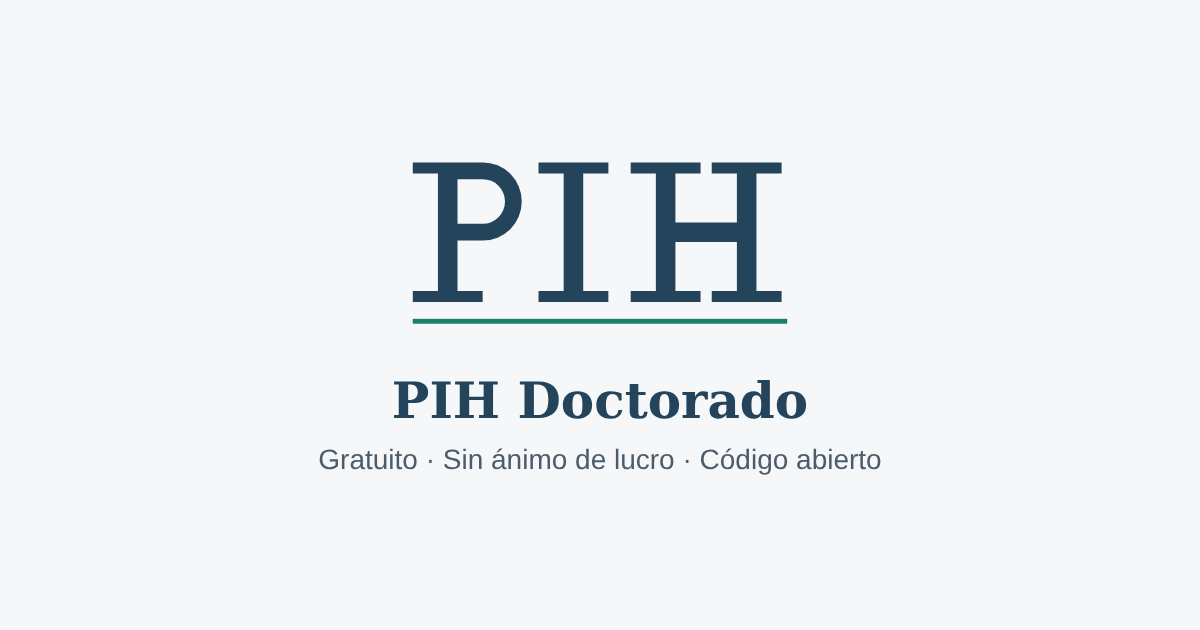
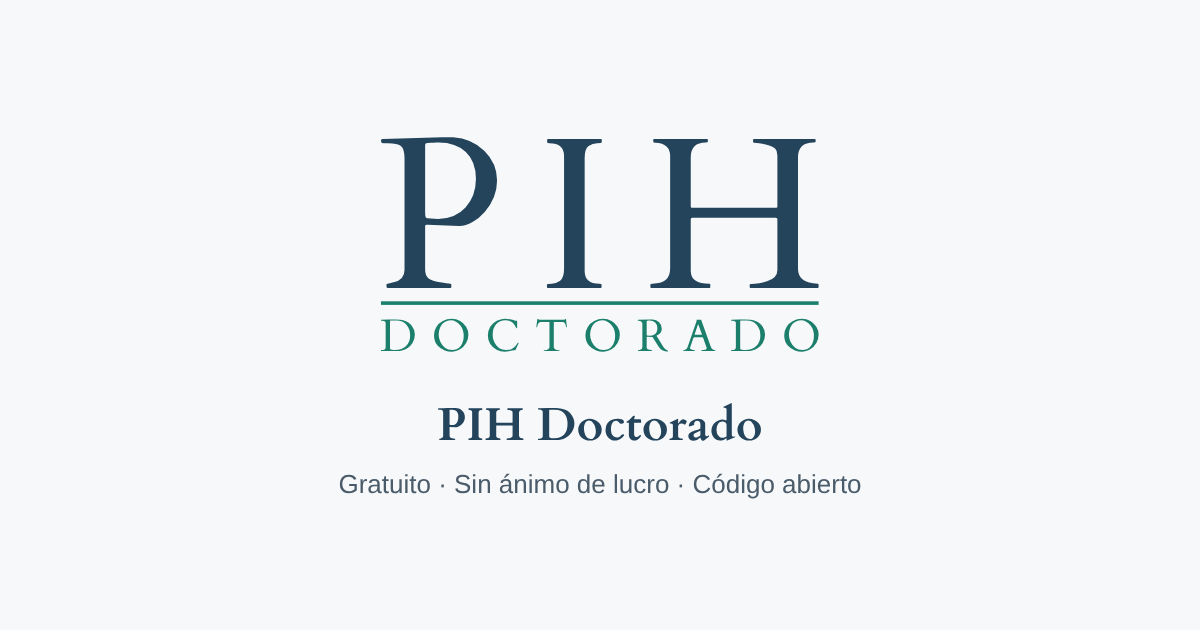
Add files via upload

Changed region(s): [[0.3083, 0.2111, 0.6783, 0.573], [0.2467, 0.6032, 0.74, 0.7841]]

diff --git a/index.html b/index.html
@@ -98,7 +98,7 @@ footer{padding-block:2rem 3rem;color:var(--muted);font-size:.85rem;border-top:1p
 .gholder[hidden]{display:none}
 .gbody code{font-family:ui-monospace,Menlo,Consolas,monospace;background:var(--surface);border:1px solid var(--line);border-radius:4px;padding:0 .25em}
 .gfig img{width:100%;height:auto;border:1px solid var(--line);border-radius:8px;display:block}
-.brand{height:34px;width:auto;margin-right:auto}
+.brand{height:44px;width:auto;margin-right:auto}
 .langbar{display:flex;justify-content:flex-end;align-items:center;gap:.5rem;padding-top:1rem;font-size:.85rem;color:var(--muted)}
 .langbar select{font:inherit;color:var(--ink);background:var(--surface);border:1px solid var(--line);border-radius:6px;padding:.35rem .6rem}
 .langbar select:focus-visible{outline:3px solid var(--accent);outline-offset:2px}
@@ -108,7 +108,7 @@ footer{padding-block:2rem 3rem;color:var(--muted);font-size:.85rem;border-top:1p
 
 <div class="wrap">
 
-<div class="langbar"><svg xmlns="http://www.w3.org/2000/svg" viewBox="0 -6 272 128" role="img" aria-label="PIH Doctorado" class="brand"><style>.l{fill:#24445C}.a{fill:#1B7F6B}@media (prefers-color-scheme:dark){.l{fill:#7FB0D1}.a{fill:#5FC2A9}}</style><path class="l" d="M20 0h14v100h-14zM2 0h50v8h-50zM2 92h50v8h-50zM34 0H52A28 28 0 0 1 52 56H34V44H52A16 16 0 0 0 52 12H34ZM110 0h14v100h-14zM92 0h50v8h-50zM92 92h50v8h-50zM176 0h14v100h-14zM158 0h50v8h-50zM158 92h50v8h-50zM234 0h14v100h-14zM216 0h50v8h-50zM216 92h50v8h-50zM189 43h46v14h-46z"/><rect class="a" x="2" y="112" width="268" height="3.5"/></svg><label for="lang" data-i18n="lang_label">Idioma</label>
+<div class="langbar"><svg xmlns="http://www.w3.org/2000/svg" viewBox="-4 -6 301.8 154.4" role="img" aria-label="PIH Doctorado" class="brand"><style>.l{fill:#24445C}.a{fill:#1B7F6B}@media (prefers-color-scheme:dark){.l{fill:#7FB0D1}.a{fill:#5FC2A9}}</style><path class="l" d="M4.26 100Q3.69 100 3.69 98.58V97.73Q3.69 97.16 4.4 97.16Q5.11 97.16 6.49 96.74Q7.87 96.31 8.58 96.17Q15.82 94.54 15.82 87.94V13.05Q15.82 6.52 13.4 4.72Q10.99 2.91 4.68 2.91H1.49Q0 2.91 0 1.21Q0 0.21 0.92 -0H1.42L41.21 -1.06H48.37Q61.06 -0.21 69.5 8.09Q77.94 16.38 77.94 27.98Q77.94 39.57 69.65 49.01Q66.03 53.19 61.49 55.78Q56.95 58.37 52.55 58.44L31.28 57.59H30.71Q29.65 57.59 29.65 58.58V87.73Q29.65 91.63 31.77 93.48Q33.9 95.32 40.78 96.38Q41.7 96.52 43.76 96.84Q45.82 97.16 46.52 97.16Q47.23 97.16 47.23 97.73V99.43Q47.23 100 46.67 100ZM29.65 3.83V49.57L29.79 51.7Q30 53.19 31.13 53.26L38.37 53.69Q49.79 53.69 56.77 46.03Q63.76 38.37 63.76 26.77Q63.76 15.18 56.99 8.79Q50.21 2.41 38.94 2.41Q37.94 2.41 37.09 2.45Q36.24 2.48 35.39 2.52Q34.54 2.55 33.58 2.59Q32.62 2.62 31.13 2.66Q29.65 2.7 29.65 3.83ZM122.92 11.35Q122.92 2.84 113.13 2.84Q111.57 2.84 111.57 2.27V0.57Q111.57 -0 112.14 -0H147.67Q148.24 -0 148.24 0.57V2.27Q148.24 2.84 145.12 2.84Q142 2.84 139.38 4.82Q136.75 6.81 136.75 12.98V88.65Q136.75 97.16 146.61 97.16Q148.1 97.16 148.1 97.73V99.43Q148.1 100 147.53 100H112Q111.43 100 111.43 99.43V97.73Q111.43 97.16 114.55 97.16Q117.67 97.16 120.3 95.18Q122.92 93.19 122.92 87.02ZM279.96 87.16Q279.96 96.74 293.22 97.16Q293.79 97.16 293.79 97.73V99.43Q293.79 100 293.22 100H248.11Q247.55 100 247.55 99.43V97.73Q247.55 97.16 251.09 97.16Q254.64 97.16 259.18 95.6Q266.13 93.33 266.13 87.94V54.11Q266.13 53.4 265.91 53.19Q265.7 52.98 264.99 52.98H209.11Q208.4 52.98 208.18 53.19Q207.97 53.4 207.97 54.11V88.65Q207.97 97.16 220.52 97.16Q221.09 97.16 221.09 97.73V99.43Q221.09 100 220.6 100H181.45Q180.88 100 180.88 99.43V97.73Q180.88 97.16 182.3 97.16Q194.14 97.16 194.14 87.02V11.35Q194.14 3.05 184.28 2.55Q182.79 2.48 182.79 1.91V0.57Q182.79 -0 183.29 -0H218.89Q219.46 -0 219.46 0.57V1.91Q219.46 2.34 218.11 2.34Q207.97 2.34 207.97 12.34V45.11Q207.97 45.82 208.18 46.03Q208.4 46.24 209.11 46.24H264.99Q265.7 46.24 265.91 46.03Q266.13 45.82 266.13 45.11V11.21Q265.99 10.57 265.95 10.04Q265.91 9.5 265.7 8.37Q265.21 5.96 260.67 4.43Q256.13 2.91 250.38 2.48Q249.82 2.48 249.82 1.91V0.57Q249.82 -0 250.31 -0H291.23Q291.8 -0 291.8 0.57V1.91Q291.8 2.34 290.45 2.34Q279.96 2.34 279.96 12.34Z"/><rect class="a" x="0" y="109" width="293.8" height="2.4"/><path class="a" d="M0 121.47Q0 121.36 0.12 121.36H0.45L5.23 121.25Q6.09 121.22 7.1 121.22H8.97Q11.56 121.22 12.86 121.41Q14.16 121.61 15.42 121.87Q16.68 122.13 18.1 123.05Q19.53 123.98 20.57 125.29Q22.77 128.09 22.77 131.33Q22.77 134.58 21.07 137.16Q18.63 140.9 14 142.04Q12.53 142.4 10.98 142.4H0.12Q0 142.4 0 142.28V141.86Q0 141.74 0.12 141.74H0.45Q3.16 141.74 3.16 140.02V123.69Q3.16 122.86 2.52 122.44Q1.88 122.01 1.07 122.01H0.12Q0 122.01 0 121.89ZM6.43 121.92Q6.06 121.92 6.06 122.32V140.54Q6.06 141.64 8.13 141.69Q8.74 141.7 9.41 141.7Q14.16 141.7 16.88 139.03Q19.6 136.37 19.6 131.94Q19.6 127.51 17.09 124.71Q14.58 121.92 10.49 121.92ZM47.52 142.8Q45.07 142.8 42.86 142.01Q39.82 140.91 37.97 138.75Q35.62 136 35.62 131.77Q35.62 128.71 37.18 126.2Q38.74 123.69 41.51 122.23Q44.27 120.77 47.45 120.77Q50.63 120.77 53.15 122.19Q55.66 123.6 57.18 126.08Q58.7 128.55 58.7 131.43Q58.7 134.31 57.2 136.91Q55.69 139.51 53.07 141.12Q51.78 141.91 50.24 142.36Q48.71 142.8 47.52 142.8ZM47.7 141.7Q51.51 141.7 53.64 138.78Q55.56 136.14 55.56 132.05Q55.56 127.95 53.21 124.99Q52.06 123.54 50.4 122.67Q48.74 121.8 47.05 121.8Q45.36 121.8 44.28 122.17Q43.2 122.55 42.32 123.19Q41.44 123.84 40.77 124.74Q40.1 125.63 39.65 126.67Q38.74 128.82 38.74 131.29Q38.74 133.76 39.84 136.2Q40.93 138.63 42.97 140.17Q45.02 141.7 47.7 141.7ZM90.24 141.83Q90.16 141.95 89.87 141.89Q89.58 141.82 89.2 141.82Q88.81 141.82 88.1 141.98Q87.39 142.13 85.88 142.47Q84.36 142.8 83.1 142.8Q80.28 142.8 77.62 141.47Q74.96 140.14 73.36 137.69Q71.77 135.24 71.77 132Q71.77 128.77 73.36 126.15Q75.69 122.31 80.36 121.15Q81.85 120.77 83.34 120.77Q85.38 120.77 88.18 121.46Q89.03 121.67 89.62 121.89Q90.21 122.11 90.34 122.11L90.79 122H91.25Q91.43 122 91.43 122.25V126.88Q91.43 127.03 91.16 127.03Q90.89 127.03 90.85 126.96Q90.8 126.9 90.76 126.8Q90.72 126.7 90.66 126.6Q90.61 126.49 90.56 126.4Q90.51 126.31 90.49 126.27Q88.26 121.79 83.72 121.79Q79.62 121.79 77.31 124.39Q75 127 75 131.3Q75 135.59 77.54 138.68Q80.08 141.76 84.45 141.76Q86.83 141.76 88.79 140.34Q90.75 138.93 91.86 136.87Q91.89 136.79 92.04 136.79H92.23Q92.38 136.79 92.38 136.96Q92.38 137.14 92.29 137.31ZM109.34 141.92Q109.34 141.8 109.47 141.8H109.89Q111.35 141.8 112.24 141.18Q113.12 140.55 113.12 139.72V123.23Q113.12 122.92 113 122.88Q112.87 122.84 112.69 122.81H106.97Q105.59 123.11 105.15 124.94Q104.92 125.93 104.87 126.2Q104.83 126.48 104.71 126.48H104.44Q104.35 126.48 104.35 126.42V125.93L104.9 121.28Q104.99 120.82 105.2 120.82Q105.41 120.82 105.65 121.11Q105.88 121.4 106.55 121.4H122.61Q123.25 121.4 123.38 121.25Q123.52 121.1 123.64 120.96Q123.76 120.82 123.94 120.82Q124.13 120.82 124.18 120.97Q124.23 121.12 124.26 121.28L124.81 125.93V126.42Q124.81 126.48 124.72 126.48H124.46Q124.34 126.48 124.29 126.26Q124.05 124.77 123.61 123.89Q123.16 123.02 122.19 122.81H116.46Q116.28 122.84 116.15 122.88Q116.03 122.92 116.03 123.23V139.72Q116.03 140.55 116.91 141.18Q117.8 141.8 119.26 141.8H119.69Q119.81 141.8 119.81 141.92V142.28Q119.81 142.4 119.69 142.4H109.46Q109.34 142.4 109.34 142.28ZM149.17 142.8Q146.73 142.8 144.51 142.01Q141.47 140.91 139.62 138.75Q137.27 136 137.27 131.77Q137.27 128.71 138.84 126.2Q140.4 123.69 143.16 122.23Q145.92 120.77 149.1 120.77Q152.28 120.77 154.8 122.19Q157.32 123.6 158.84 126.08Q160.36 128.55 160.36 131.43Q160.36 134.31 158.85 136.91Q157.35 139.51 154.73 141.12Q153.43 141.91 151.9 142.36Q150.36 142.8 149.17 142.8ZM149.35 141.7Q153.16 141.7 155.29 138.78Q157.21 136.14 157.21 132.05Q157.21 127.95 154.86 124.99Q153.71 123.54 152.05 122.67Q150.39 121.8 148.7 121.8Q147.01 121.8 145.93 122.17Q144.85 122.55 143.97 123.19Q143.09 123.84 142.42 124.74Q141.75 125.63 141.31 126.67Q140.4 128.82 140.4 131.29Q140.4 133.76 141.49 136.2Q142.59 138.63 144.63 140.17Q146.67 141.7 149.35 141.7ZM172.64 142.4Q172.52 142.4 172.52 142.1V141.92Q172.52 141.8 172.64 141.8Q172.72 141.8 172.92 141.77Q173.11 141.74 173.32 141.71Q173.53 141.69 173.71 141.65Q173.89 141.61 173.96 141.6Q175.48 141.25 175.48 139.87V124.14Q175.48 122.86 174.45 122.32Q173.84 122 173.14 122H172.58Q172.46 122 172.46 121.88V121.52Q172.46 121.4 172.64 121.4L180.81 121.18H182.32Q184.95 121.36 186.73 123.09Q188.51 124.83 188.51 127.36Q188.51 129.9 186.4 131.32Q185.74 131.75 184.98 132.09L189.49 139.47Q190.67 141.4 192.65 142.19Q192.82 142.24 192.82 142.4Q192.82 142.77 192.32 142.77Q188.97 142.77 186.99 140.23Q186.56 139.66 186.13 138.96L182.27 132.91L178.73 132.75H178.61Q178.38 132.75 178.38 132.96V139.82Q178.38 140.64 178.85 141.04Q179.31 141.45 180.44 141.6Q180.74 141.64 181.17 141.72Q181.6 141.8 181.76 141.8Q181.91 141.8 181.91 141.92V142.28Q181.91 142.4 181.79 142.4ZM178.38 122.23V131.26L178.41 131.71Q178.46 132.02 178.7 132.03L180.22 132.12Q184.4 132.12 185.27 129.14Q185.55 128.21 185.55 127Q185.55 124.65 184.08 123.29Q182.61 121.94 180.34 121.94Q180.13 121.94 179.95 121.94Q179.77 121.95 179.59 121.96Q179.41 121.97 179.21 121.97Q179.01 121.98 178.7 121.99Q178.38 122 178.38 122.23ZM210.78 142.28Q210.78 142.4 210.67 142.4H203.05Q202.94 142.4 202.94 142.28V141.92Q202.94 141.8 203.13 141.8Q205.17 141.71 205.88 139.63L211.96 122.04Q211.98 122.01 211.98 121.97L211.81 121.47Q211.81 121.4 211.87 121.4H214.85Q214.88 121.41 214.93 121.43Q214.98 121.44 215.01 121.52L221.31 139.2Q221.52 139.6 221.65 139.93Q221.78 140.26 221.94 140.52Q222.3 141.13 223.12 141.46Q223.8 141.8 224.37 141.8Q224.49 141.8 224.49 141.94V142.28Q224.49 142.4 224.37 142.4H215.25Q215.13 142.4 215.13 142.28V141.92Q215.13 141.8 215.68 141.77Q216.24 141.74 216.59 141.71Q218.66 141.49 218.66 140.31Q218.66 140.23 218.63 140.11L216.38 133.76Q216.37 133.73 216.32 133.63Q216.15 133.12 215.7 133.12H210.41Q209.97 133.12 209.71 133.61Q209.67 133.72 209.67 133.73L207.43 140.27V140.4Q207.43 140.79 207.84 141.1Q208.74 141.8 210.28 141.8H210.67Q210.78 141.8 210.78 141.92ZM215.19 131.47Q215.46 131.47 215.46 131.24Q215.46 131.13 215.4 130.98L213.18 124.87Q213.03 124.47 212.96 124.47Q212.88 124.47 212.72 124.89L210.64 130.98Q210.58 131.13 210.58 131.3Q210.58 131.47 210.8 131.47ZM235.1 121.47Q235.1 121.36 235.22 121.36H235.54L240.33 121.25Q241.19 121.22 242.2 121.22H244.06Q246.66 121.22 247.96 121.41Q249.26 121.61 250.52 121.87Q251.78 122.13 253.2 123.05Q254.62 123.98 255.67 125.29Q257.87 128.09 257.87 131.33Q257.87 134.58 256.17 137.16Q253.73 140.9 249.1 142.04Q247.62 142.4 246.07 142.4H235.22Q235.1 142.4 235.1 142.28V141.86Q235.1 141.74 235.22 141.74H235.54Q238.26 141.74 238.26 140.02V123.69Q238.26 122.86 237.61 122.44Q236.97 122.01 236.17 122.01H235.22Q235.1 122.01 235.1 121.89ZM241.53 121.92Q241.16 121.92 241.16 122.32V140.54Q241.16 141.64 243.23 141.69Q243.84 141.7 244.51 141.7Q249.26 141.7 251.98 139.03Q254.7 136.37 254.7 131.94Q254.7 127.51 252.19 124.71Q249.68 121.92 245.58 121.92ZM282.61 142.8Q280.17 142.8 277.95 142.01Q274.91 140.91 273.07 138.75Q270.71 136 270.71 131.77Q270.71 128.71 272.28 126.2Q273.84 123.69 276.61 122.23Q279.37 120.77 282.55 120.77Q285.73 120.77 288.24 122.19Q290.76 123.6 292.28 126.08Q293.8 128.55 293.8 131.43Q293.8 134.31 292.3 136.91Q290.79 139.51 288.17 141.12Q286.87 141.91 285.34 142.36Q283.81 142.8 282.61 142.8ZM282.79 141.7Q286.61 141.7 288.74 138.78Q290.66 136.14 290.66 132.05Q290.66 127.95 288.3 124.99Q287.16 123.54 285.5 122.67Q283.84 121.8 282.15 121.8Q280.46 121.8 279.38 122.17Q278.3 122.55 277.42 123.19Q276.54 123.84 275.87 124.74Q275.2 125.63 274.75 126.67Q273.84 128.82 273.84 131.29Q273.84 133.76 274.94 136.2Q276.03 138.63 278.07 140.17Q280.11 141.7 282.79 141.7Z"/></svg><label for="lang" data-i18n="lang_label">Idioma</label>
 <select id="lang" aria-label="Idioma"><option value="es">Español</option><option value="en">English</option><option value="ca">Català</option><option value="eu">Euskara</option><option value="gl">Galego</option><option value="fr">Français</option><option value="it">Italiano</option><option value="pt">Português</option><option value="de">Deutsch</option><option value="sv">Svenska</option><option value="da">Dansk</option><option value="no">Norsk</option><option value="fi">Suomi</option><option value="is">Íslenska</option><option value="lt">Lietuvių</option><option value="lv">Latviešu</option><option value="et">Eesti</option><option value="cs">Čeština</option><option value="pl">Polski</option><option value="ru">Русский</option><option value="uk">Українська</option><option value="sr">Српски / Srpski</option><option value="bs">Bosanski</option><option value="hr">Hrvatski</option><option value="bg">Български</option><option value="sl">Slovenščina</option><option value="sq">Shqip</option><option value="el">Ελληνικά</option><option value="tr">Türkçe</option><option value="hu">Magyar</option><option value="nl">Nederlands</option><option value="nlbe">Vlaams (België)</option><option value="zh">中文</option><option value="ja">日本語</option><option value="ko">한국어</option><option value="th">ไทย</option><option value="vi">Tiếng Việt</option><option value="id">Bahasa Indonesia</option><option value="hi">हिन्दी</option><option value="mn">Монгол</option><option value="ar">العربية</option><option value="fa">فارسی</option><option value="ur">اردو</option><option value="ga">Gaeilge</option><option value="sw">Kiswahili</option><option value="ha">Hausa</option></select></div>
 
 <header class="hero">
